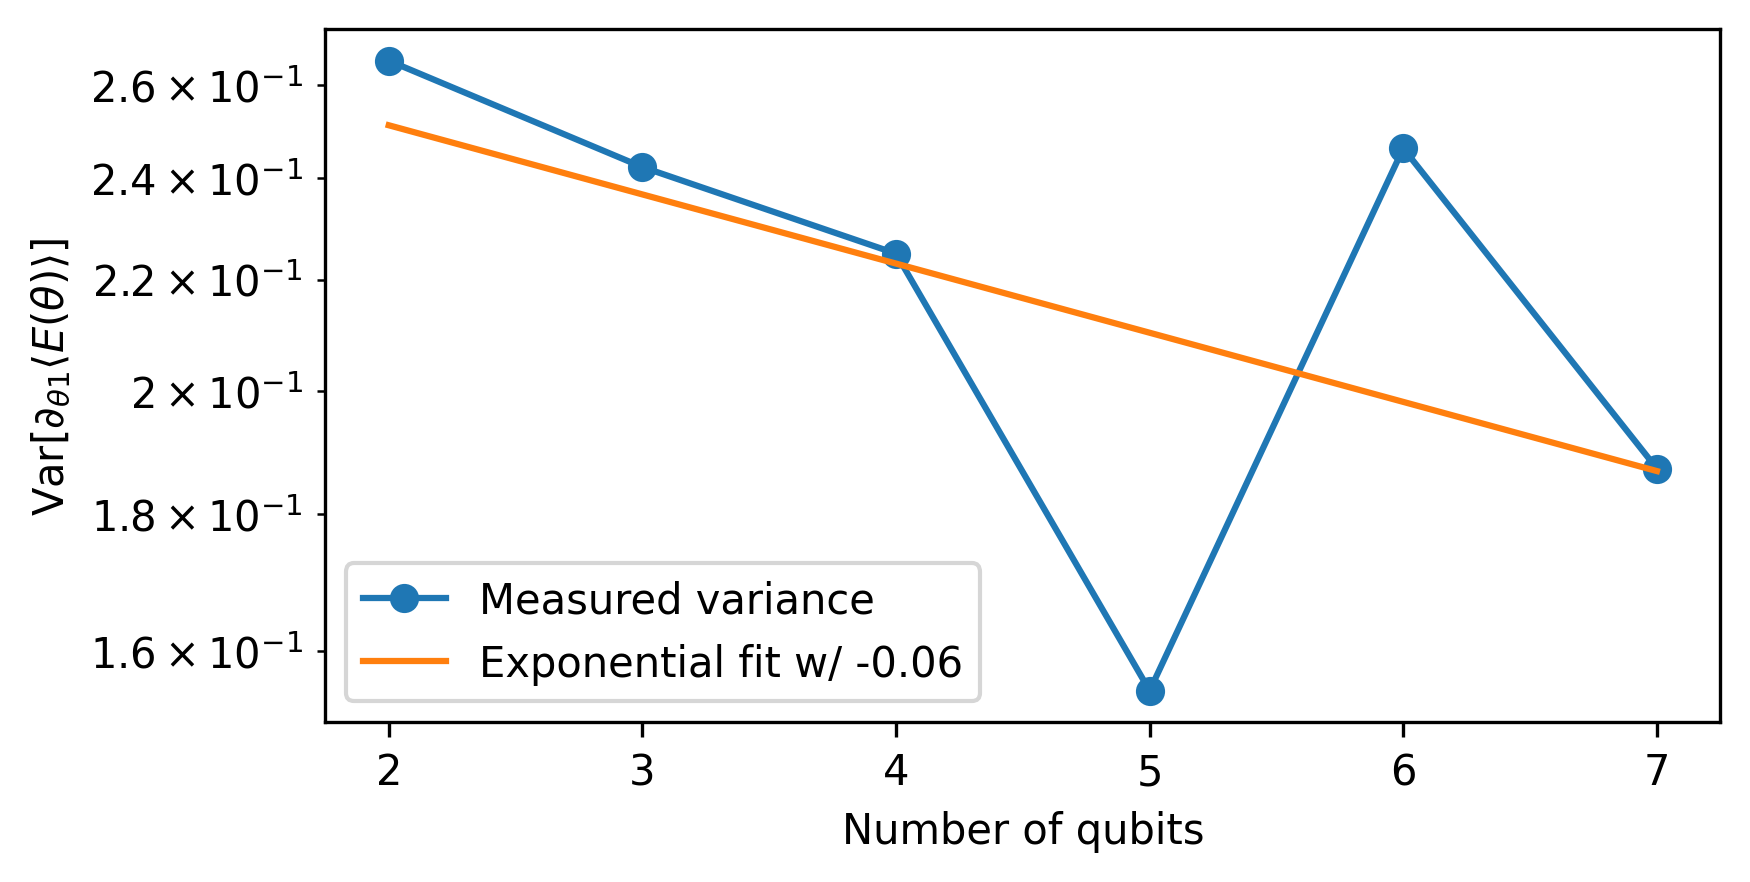
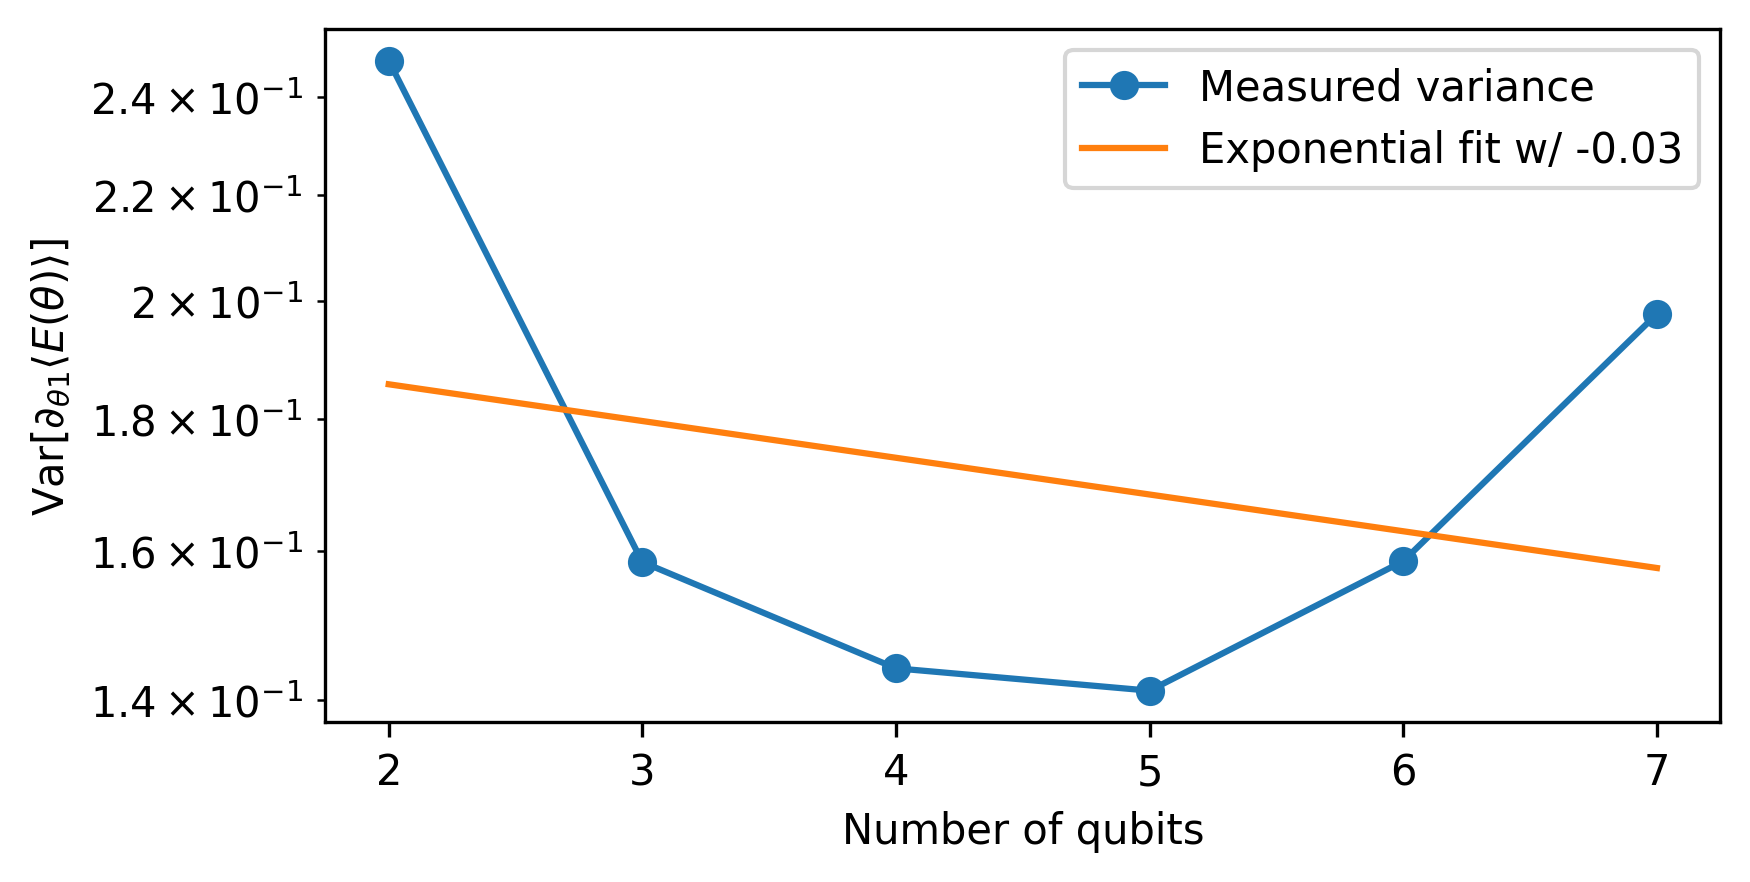
update

diff --git a/Artefact/Content/Results.tex b/Artefact/Content/Results.tex
@@ -1,16 +1,16 @@
 \subsection{Results and Analysis} \label{Result section}
 
-\subsubsection{Sampling Gradients results}
+\subsubsection{Sampling Gradients results} \label{Sec: Sampling Gradients results}
 \begin{table*}
     \centering
     \begin{tabular}{|| l l l ||}
         \hline
         \textbf{Ansatz} & \textbf{Method}                         & \textbf{Variance exponential fit} \\[0.5ex]
         \hline \hline
-        Real Amplitude  & \#0: No restriction                     & -0.63                             \\
-        Real Amplitude  & \#1: Local Cost function, shallow depth & -0.06                             \\
-        Real Amplitude  & \#2: Layerwise Learning                 & -0.57                             \\
-        Customised      & \#3: Identity Blocks                    & -0.60                             \\
+        Real Amplitude  & \#0: No restriction                     & -0.62                             \\
+        Real Amplitude  & \#1: Local Cost function, shallow depth & -0.03                             \\
+        Real Amplitude  & \#2: Layerwise Learning                 & -0.53                             \\
+        Customised      & \#3: Identity Blocks                    & -0.56                             \\
         \hline
     \end{tabular}
     \caption{
@@ -22,10 +22,11 @@
     \label{Tab: Experiment Phase 1 Res}
 \end{table*}
 
+We examine the internal performance of the ansatzes by sampling the variance of gradients as described in Section \ref{Sec: Visualise the Variance}.
 Table \ref{Tab: Experiment Phase 1 Res} states all the combinations of ansatzes and methods.
 
 The ansatz gradient variances decay as expected for the unrestricted setting.
-The decay rate is exponentially fitted with the rate of -0.63.
+The decay rate is exponentially fitted with the rate of -0.62.
 The figure \ref{Plot ansatzes variance}a shows the results of the ansatz in this configuration.
 The semi-log plots portray the variances of gradient from the ansatz in the unrestricted configuration.
 Consider that the unit measure for variance is in \emph{exponential} form, so the linear graph is exponentially closer to zero for each qubit added to the circuit.
@@ -65,14 +66,13 @@ We discussed this phenomenon in Section \ref{Barren Plateaus section}.
     \label{Plot ansatzes variance}
 \end{figure}
 
-\todo{fix this overlap}
 
 In contrast, for the case of Local Cost Function and Shallow circuit, we observe that the variances of the ansatz' gradient did not vanish when we attempted to increase the number of qubits.
-The slope of the ansatz in this case decay exponentially fit with -0.06.
+The slope of the ansatz in this case decay exponentially fit with -0.03.
 This implies that the cost function landscape can sustain the slope.
 Figure \ref{Plot ansatzes variance}b shows the result of the experiment for local cost function and shallow circuit.
 We can see that the ansatz produced an unstable graph which means the trainability of gradient-based optimization algorithms would not be consistent.
-For example, the variance value for 6 qubits is higher than 3, 4 or 5 qubits.
+For example, the variance value for 6 and 7 qubits are higher than 3, 4 or 5 qubits.
 
 To compare the effectiveness of the different treatments, we plot the variance graph of above mention cases in Figure \ref{Fig: Plot Variances} and the Table \ref{Tab: Experiment Phase 1 Res}.
 The results have shown the differences in the decay rates of different ansatzes and methods.
@@ -97,15 +97,15 @@ On the other hand, the values for the other cases shrink exponentially and event
     \centering
     \begin{tabular}{|| p{4cm} p{2cm} p{2cm} p{2cm} p{2cm} ||}
         \hline
-        \textbf{Method}                          & \textbf{Circuit depth} & \textbf{Parameters count} & \textbf{Minimum loss} & \textbf{Score} \\
+        \textbf{Method}                          & \textbf{Circuit depth} & \textbf{Parameters count} & \textbf{Reached loss} & \textbf{Accuracy Score} \\
         \hline \hline
-        0: No Restriction                        & 15                     & 16                        & 0.57                  & 72.50\%        \\
+        0: No Restriction                        & 161                    & 105                       & 0.82                  & 60\%                    \\
         \raggedright
         \hangindent=1em
         \hangafter=1
-        1: Local Cost Function - Shallow circuit & 5                      & 6                         & 0.57                  & 80\%           \\
-        2: Layerwise Learning                    & 15                     & 16                        & 0.39                  & 92.5\%         \\
-        3: Identity Blocks                       & 18                     & 24                        & 0.39                  & 90\%           \\
+        1: Local Cost Function - Shallow circuit & 25                     & 20                        & 0.81                  & 75\%                    \\
+        2: Layerwise Learning                    & 161                    & 105                       & 0.75                  & 82.5\%                  \\
+        3: Identity Blocks                       & 200                    & 200                       & 0.94                  & 77.5\%                  \\
         \hline
     \end{tabular}
     \caption{
@@ -115,19 +115,24 @@ On the other hand, the values for the other cases shrink exponentially and event
     \label{Tab: Experiment Phase 2 Res}
 \end{table*}
 
-The unrestricted and local cost function - shallow depth ansatzes loss functions both converged at a value of 0.57.
-The unrestricted ansatz, while converging to a value, the accuracy score of the classification test is the lowest (72.5\%).
-Thus, the model is likely to stuck on a barren plateau, instead of converging into the global minima.
-On the other hand, we can see that the local cost function and shallow circuit ansatz achieved higher accuracy in the classification test (at 80\% accuracy).
+We examine the practical performance of four models after 150 iterations of COBYLA optimisation, the results are shown in Table \ref{Tab: Experiment Phase 2 Res}.
+
+The unrestricted ansatz, as expected, perfomed the worst compared to the others.
+The local cost function - shallow depth ansatz seems to be the best in overcomming barren plateau as discussed in Section \ref{Sec: Sampling Gradients results}, and its accuracy score is indeed better than the unrestricted ansatz.
 However, by restricting the ansatz depth, we may have limited the model capacity, therefore high error rate.
-This also applies to classical machine learning \cite{ianDeepLearningAdaptive2016}, more complex functions would require higher model capacity. 
+On the other hand, the unrestricted ansatz has more layers and therefore more capacity to learn, but it is more likely to run into barren plateaus.
+This also applies to classical machine learning \cite{ianDeepLearningAdaptive2016}, more complex functions would require higher model capacity.
 Thus, the local cost function - shallow depth method is suitable if the dataset represents a simple function.
 
+% The unrestricted and local cost function - shallow depth ansatzes loss functions both converged at a value of 0.57.
+% The unrestricted ansatz, while converging to a value, the accuracy score of the classification test is the lowest (72.5\%).
+% Thus, the model is likely to stuck on a barren plateau, instead of converging into the global minima.
+% On the other hand, we can see that the local cost function and shallow circuit ansatz achieved higher accuracy in the classification test (at 80\% accuracy).
 
-The identity blocks can achieve a similar loss value as the layerwise learning method (0.39) with a bit lower accuracy.
-We can see that with the optimised initial parameters, the loss function can converge faster compared to identity blocks initialisation.
+The last two method focused on the initial parameters while allowing longer circuit, resulting in better capacity to learn.
+We can see that with the optimised initial parameters, the ansatz has better accuracy compared to identity blocks initialisation.
 However, it would take more time to obtain the optimal initial parameter due to the training process (see Section \ref{Sec: Method2}), while it is much faster to generate parameters for identity blocks in Section \ref{Sec: Method3}.
-The two methods also have their accuracy close to each other, scoring at 92\% for layerwise learning and 90\% for identity blocks.
+The two methods also have their accuracy close to each other, scoring at 82.5\% for layerwise learning and 77.5\% for identity blocks.
 Thus they are suitable for designing ansatzes of higher layer count to learn more complex functions.
 
 
@@ -136,8 +141,8 @@ Overall, the methods that involve configurations on the initial parameters can a
 
 \begin{figure}
     \begin{subfigure}{\linewidth}
-        \includegraphics[width=\linewidth]{Artefact/Appendices/loss.png}
-        \centerline{a) Loss function values of four classifiers in 300 steps}
+        \includegraphics[width=\linewidth]{Artefact/Appendices/loss_cobyla.png}
+        \centerline{a) Loss function values of four classifiers in 150 steps}
     \end{subfigure}
     \begin{subfigure}{\linewidth}
         \includegraphics[width=\linewidth]{Artefact/Appendices/accuracy.png}

diff --git a/Artefact/Content/Classification.tex b/Artefact/Content/Classification.tex
@@ -1,24 +1,24 @@
 \subsection{Classification Problem} \label{Sec: Classification Problem}
 We implement a variational quantum classifier as previously discussed in the section \ref{VQA}.
 The algorithm includes two stages: a training stage and a classification stage.
-We use a dataset generated by the Qiskit machine learning package for the algorithm.
-The data was also used for a classification algorithm by Havlíček et al. \cite{havlicekSupervisedLearningQuantumenhanced2019}.
+We use a dataset which contain thirry features to identify the presence of breast cancer.
+We apply Principal Component Analysis to the dataset obtain five training features.
 
 The quantum circuit for both stages is constructed from three parts: the feature map to encode data, the ansatz to perform optimisation and finally, a final rotation layer for measurement (see Figure \ref{Fig: Quantum circuit for classifier}).
 The number of features will dictate the number of qubits, in our case, we will be using two qubits for the quantum circuit.
-For the methods unrestricted and layerwise learning, there is no restriction on ansatz depth, so we build the ansatz to have 7 repetitions (15 depth units).
-For the method local cost function - shallow depth, we only use two repetitions (5 depth units).
-For the identity blocks method, we construct the ansatz to have a depth closer to the unrestricted method. 
-We will be using three identity blocks as the ansatz, which results in 18 depth units.
+For the methods unrestricted and layerwise learning, there is no restriction on ansatz depth, so we build the ansatz to have 20 repetitions (165 depth units).
+For the method local cost function - shallow depth, we only use three repetitions (25 depth units).
+For the identity blocks method, we will be using ten identity blocks as the ansatz, which results in 200 depth units.
 
-The dataset consisted of 50 labelled datapoints with two features used for the training process.
-The Gradient Descent algorithm provided by Qiskit will estimate the quantum circuit to optimise the ansatz parameters in maximum of 300 iterations.
+The dataset consisted of 80 labelled datapoints with five features used for the training process.
+The COBYLA algorithm provided by Qiskit will estimate the quantum circuit to optimise the ansatz parameters in maximum of 150 iterations.
+The cost function value for COBYLA algorithm is calculated as sqared error.
 For the classification benchmark, we use another set of 20 datapoints, and run the classifier with the optimised parameters obtained from the training stage.
 The classifier would produce the predicted labels for each testing datapoint.
 Then, we compare these predicted labels to the actual provided labels.
 
-We collect the optimiser' history (loss function per iteration) by implementing a callback function for Gradient Descent algorithm.
-The score $s$ of the classifier is calculated as the percentage likeliness of the predicted labels array compared to the actual labels array:
+We collect the optimiser' history (loss function per iteration) by implementing a callback function for the variational quantum classifier.
+The accuracy score $s$ of the classifier is calculated as the percentage likeliness of the predicted labels array compared to the actual labels array:
 \begin{equation}
     s = 100\% (1 - \text{MSE})
 \end{equation}

diff --git a/Conclusion/main.tex b/Conclusion/main.tex
@@ -8,15 +8,15 @@ One approach is to address the structure of the parameterised circuit by utilisi
 Another possibility is to pre-train or generate the initial parameters such that the starting point would not land on a plateau.
 We designed a series of exploratory experiments with QNN models to answer the research question.
 
+In machine learning, the loss function which guide the optimisation process, would reflects the internal perfomance in dealing with barren plateaus, while the accuracy of the model describes the practical perfomance.
+The loss function, in combination with the structure of neural network would translate to the trainability of the model.
+This experiment has demonstrated the internal performance of quantum variational classifier ansazes in the phase one and the actual performance as accuracy score in phase two.
+
 We have delivered a comparison of methods to construct the ansatz component of the QNN model.
 We compared their effectiveness and performances by analysing their gradient decay rates and solving a classification problem.
 The results indicate that unrestricted configuration leads to exponential decay in the gradient variance for each qubit added to the ansatzes.
 On the other hand, the local cost function, combined with restricted depth, can sustain ansatzes gradient variance for higher qubit count, resulting in better accuracy in the classification test.
-Furthermore, the initial parameter factor significantly improved the models' accuracy in the classification problem, with some tradeoffs between time and quality.
+For the ansatzes with lower depth, we can expect more learning capacity.
+The initial parameter factor in theses ansatzes would significantly contribute to the accuracy in the classification problem, with some tradeoffs between time and quality.
 
-This experiment has demonstrated the performance of quantum variational classifier ansatzes under two qubits configuration.
-In future works, we need to investigate the ansatzes of higher qubit count, and datasets with more features.
-
-% Therefore the trainability of gradient-based algorithm on the two ansatzes would be better compared to the ones without any restriction.
-% Compared to the expected artefact, we are still missing the last two methods, a problem so that the QNN models can be compared with each other, and most importantly, the results from the actual quantum devices  for further detail.
-% We will cover these issues in further studies.
+We leave the relationship between training data, capacity and barren plateaus for future works, because while the ansatz structures can cause barren plateau, it also related to the learning capacity of the QNN model given the training data.

diff --git a/Artefact/Content/Summary.tex b/Artefact/Content/Summary.tex
@@ -10,10 +10,9 @@ We have compared the variances in the first phase of the experiment.
 We anticipate that a higher variance value does not mean the optimisation is going in the right direction, the model can still stick it in a local minimum, or the error landscape is random.
 To verify the performance of these methods, in the second phase, we implemented a variational quantum neural network to solve a classification problem with a standard dataset.
 
-The experiments have verified that the unrestricted configuration may have run into a barren plateau, while the others can converge to their minimums - the answers.
+The phase two of the experiments have verified that the unrestricted configuration may have run into a barren plateau, while the others can converge to their minimums - the answers.
 Moreover, these experiments are conducted in an emulated environment with a noise model from \emph{ibm\_perth} backend.
 Thus, this experiment can reflect the real-life situation to some extent.
 
 According to Figure \ref{Fig: Plot Variances}, the variance values of the limited depth - cost function method at seven qubits configuration is significantly higher than the rest.
 At higher qubit configuration, the barren plateaus are also more likely to appear, and the performance of these methods under this phenomenon is worth investigating.
-Due to time constrain, we leave these experiments for future works, including ansatzes of higher qubit count, and a dataset of higher dimensions for classification.

diff --git a/Artefact/Content/VisualGradient.tex b/Artefact/Content/VisualGradient.tex
@@ -1,4 +1,4 @@
-\subsection{Visualise the Variance}
+\subsection{Visualise the Variance} \label{Sec: Visualise the Variance}
 We use the parameter shift rule from Eq. (\ref{Parameter-shift rules}) as implemented in the Qiskit Gradient library to calculate the gradient variance.
 The BP phenomena can be verified when the gradient variance exponentially decreases with an increased number of qubits and repetition layers.
 

diff --git a/entrypoint-ieeetran.tex b/entrypoint-ieeetran.tex
@@ -281,7 +281,7 @@
 % \onehalfspacing
 % \input{src/CoverPage/cover}
 \IEEEtitleabstractindextext{
-    \input{Abstract/abstract}
+	\input{Abstract/abstract}
 }
 
 \maketitle
